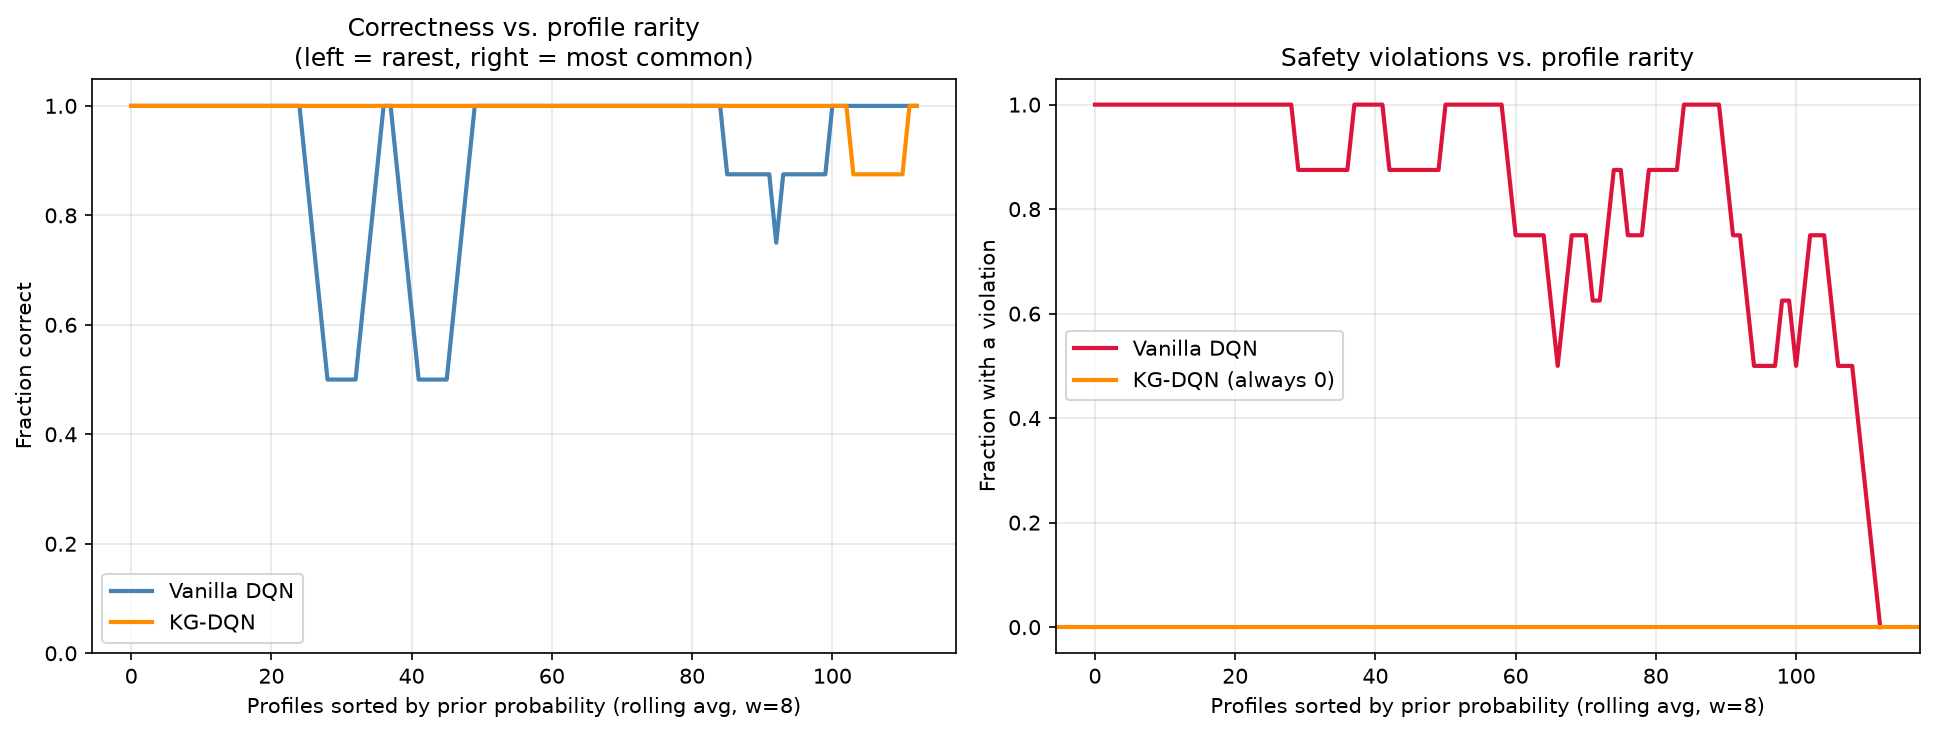
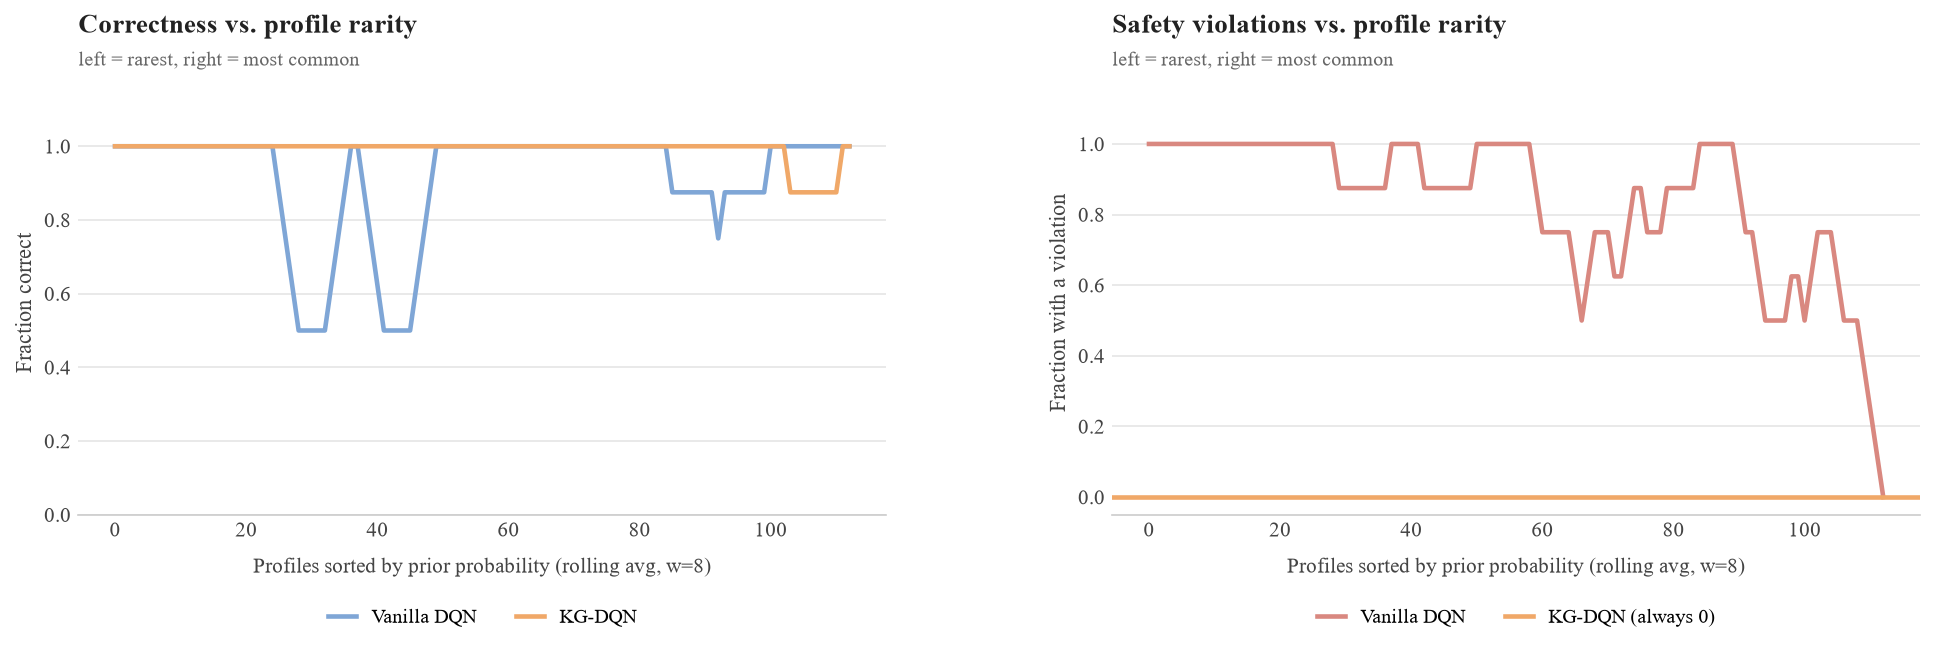
figure improved - robustness_stress_test

diff --git a/tests/tests_robustness.py b/tests/tests_robustness.py
@@ -124,27 +124,64 @@ if __name__ == "__main__":
     def rolling(x, w=8):
         return np.convolve(x, np.ones(w) / w, mode="valid")
 
-    fig, axes = plt.subplots(1, 2, figsize=(13, 5))
+    plt.rcParams["font.family"] = "serif"
+    plt.rcParams["font.serif"] = [
+        "Libertinus Serif", "Linux Libertine",
+        "Times New Roman", "Cambria", "Georgia",
+        "Liberation Serif", "DejaVu Serif",
+    ]
+    plt.rcParams["mathtext.fontset"] = "stix"
+
+    COLOR_VANILLA = "#7FA6D6"   # matches "breathing" blue from the other figure
+    COLOR_KG      = "#F0A868"   # matches "pulse" orange
+    COLOR_VIOL    = "#D98880"   # matches "ambulatory" red
+    GRID_COLOR    = "#E5E5E5"
+    SPINE_COLOR   = "#CCCCCC"
+    TEXT_COLOR    = "#444444"
+
+    def style_axis(ax):
+        for spine in ["top", "right", "left"]:
+            ax.spines[spine].set_visible(False)
+        ax.spines["bottom"].set_color(SPINE_COLOR)
+        ax.tick_params(axis="both", length=0, colors=TEXT_COLOR)
+        ax.grid(axis="y", color=GRID_COLOR, linewidth=0.8, zorder=0)
+        ax.set_axisbelow(True)
+
+    fig, axes = plt.subplots(1, 2, figsize=(13, 5.3), dpi=150)
 
     ax = axes[0]
-    ax.plot(rolling(van_correct_flags), color="steelblue",  lw=2, label="Vanilla DQN")
-    ax.plot(rolling(kg_correct_flags),  color="darkorange", lw=2, label="KG-DQN")
-    ax.set_title("Correctness vs. profile rarity\n"
-                 "(left = rarest, right = most common)")
-    ax.set_xlabel("Profiles sorted by prior probability (rolling avg, w=8)")
-    ax.set_ylabel("Fraction correct")
-    ax.set_ylim(0, 1.05); ax.legend(); ax.grid(alpha=0.3)
+    ax.plot(rolling(van_correct_flags), color=COLOR_VANILLA, lw=2.2, label="Vanilla DQN")
+    ax.plot(rolling(kg_correct_flags),  color=COLOR_KG,      lw=2.2, label="KG-DQN")
+    ax.set_title("Correctness vs. profile rarity", fontsize=13,
+                 fontweight="bold", color="#222222", pad=28, loc="left")
+    ax.text(0, 1.06, "left = rarest, right = most common",
+            transform=ax.transAxes, fontsize=9.5, color="#666666", ha="left")
+    ax.set_xlabel("Profiles sorted by prior probability (rolling avg, w=8)",
+                  fontsize=10, color=TEXT_COLOR, labelpad=8)
+    ax.set_ylabel("Fraction correct", fontsize=10.5, color=TEXT_COLOR)
+    ax.set_ylim(0, 1.15)
+    style_axis(ax)
+    ax.legend(loc="upper center", bbox_to_anchor=(0.5, -0.18), ncol=2,
+              frameon=False, fontsize=9.5, handlelength=1.4)
 
     ax = axes[1]
-    ax.plot(rolling(van_violation_flags), color="crimson",    lw=2, label="Vanilla DQN")
-    ax.axhline(0, color="darkorange", lw=2, linestyle="-", label="KG-DQN (always 0)")
-    ax.set_title("Safety violations vs. profile rarity")
-    ax.set_xlabel("Profiles sorted by prior probability (rolling avg, w=8)")
-    ax.set_ylabel("Fraction with a violation")
-    ax.legend(); ax.grid(alpha=0.3)
+    ax.plot(rolling(van_violation_flags), color=COLOR_VIOL, lw=2.2, label="Vanilla DQN")
+    ax.axhline(0, color=COLOR_KG, lw=2.2, linestyle="-", label="KG-DQN (always 0)")
+    ax.set_title("Safety violations vs. profile rarity", fontsize=13,
+                 fontweight="bold", color="#222222", pad=28, loc="left")
+    ax.text(0, 1.06, "left = rarest, right = most common",
+            transform=ax.transAxes, fontsize=9.5, color="#666666", ha="left")
+    ax.set_xlabel("Profiles sorted by prior probability (rolling avg, w=8)",
+                  fontsize=10, color=TEXT_COLOR, labelpad=8)
+    ax.set_ylabel("Fraction with a violation", fontsize=10.5, color=TEXT_COLOR)
+    ax.set_ylim(-0.05, 1.15)
+    style_axis(ax)
+    ax.legend(loc="upper center", bbox_to_anchor=(0.5, -0.18), ncol=2,
+              frameon=False, fontsize=9.5, handlelength=1.4)
 
-    plt.tight_layout()
-    plt.savefig("results/robustness_stress_test.png", dpi=150, bbox_inches="tight")
+    fig.tight_layout(rect=[0, 0.06, 1, 0.94])
+    fig.subplots_adjust(wspace=0.28)
+    fig.savefig("results/robustness_stress_test.png", dpi=150, bbox_inches="tight")
     print(f"Saved results/robustness_stress_test.png (Figure 1 in paper).")
 
     # ── KG-DQN failure traces (Table 6 in paper) ─────────────────────